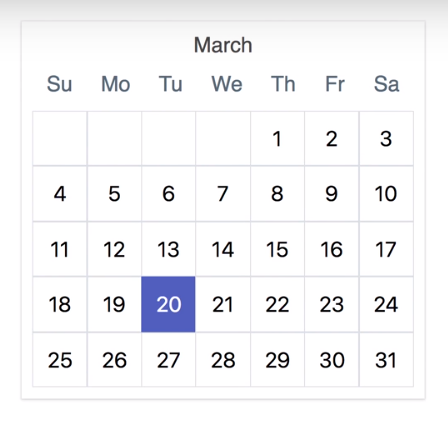
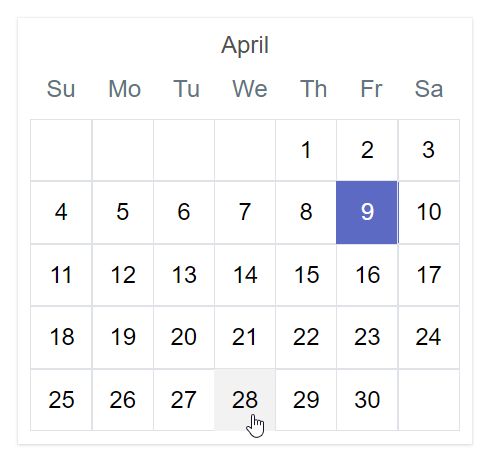
calendar fixed

diff --git a/calendar/src/DatePicker/Day.js b/calendar/src/DatePicker/Day.js
@@ -1,30 +1,25 @@
-import React, { Component } from "react";
+import React from "react";
 
-import Month from "./Month";
-import { getMonthName } from "./helpers";
-import "./DatePicker.css";
+export default function Day({hovering, fullDate, onClick, selected, onMouseEnter, onMouseLeave}) {
+    if (fullDate == null) {
+        return <div className={"EmptyStateDay"} />
+    }
 
-class DatePicker extends Component {
-  render() {
-    const { fullDate, onDayClick } = this.props;
+    const date = fullDate.getDate();
+    let className = "Day";
 
-    const dateNumber = fullDate.getDate();
-    const monthNumber = fullDate.getMonth();
-    const yearNumber = fullDate.getFullYear();
-    const monthName = getMonthName(monthNumber);
+    if (selected) {
+        className = "Day Day--selected"
+    } else if (hovering) {
+        className = "Day Day--hovering";
+    }
 
     return (
-      <div className="DatePickerContainer">
-        <div className="DatePickerContainer__Title">{monthName}</div>
-        <Month
-          date={dateNumber}
-          month={monthNumber}
-          year={yearNumber}
-          onDayClick={onDayClick}
-        />
-      </div>
+        <button
+            className={className}
+            onClick={onClick.bind(this, date)}
+            onMouseEnter={onMouseEnter.bind(this, date)}
+            onMouseLeave={onMouseLeave}
+        >{date}</button>
     );
-  }
 }
-
-export default DatePicker;

diff --git a/calendar/src/index.js b/calendar/src/index.js
@@ -5,4 +5,5 @@ import App from './App';
 
 ReactDOM.render(
   <App />,
-  document.getElementById('root'));
+  document.getElementById('root')
+);

diff --git a/README.md b/README.md
@@ -1,4 +1,6 @@
 # Planner
+Семестровый проект по компьютерным технологиям на 2 курсе, 2020 г.
+
 Приложение для планирования дел, изначально задуманное как элегантное и продуманное объеднинение нескольких приложений: списка дел, календаря, расписания, отслеживания важных мероприятий, и проектное планирование для небольших задач (зачем и нужен график Ганта). В процессе выполнения этого семестрового проекта в план внеслись корректировки.  
 
 На данный момент данное приложение, по сути, представляет из себя 3 разных:  
@@ -7,7 +9,7 @@
 - [gantt-chart](https://github.com/r-vvch/Planner/tree/master/gantt-chart ) - диаграмма Ганта
 
 ## To-Do
-Список дел с функционалом удаления/добавления задач. Выделение выполненных, считывание Enter'а и прочие мелкие детали  
+Список дел с функционалом удаления/добавления задач. Выделение выполненных, считывание Enter'а и прочие мелкие детали.  
 
 <details>
   <summary>Как оно выглядит</summary>
